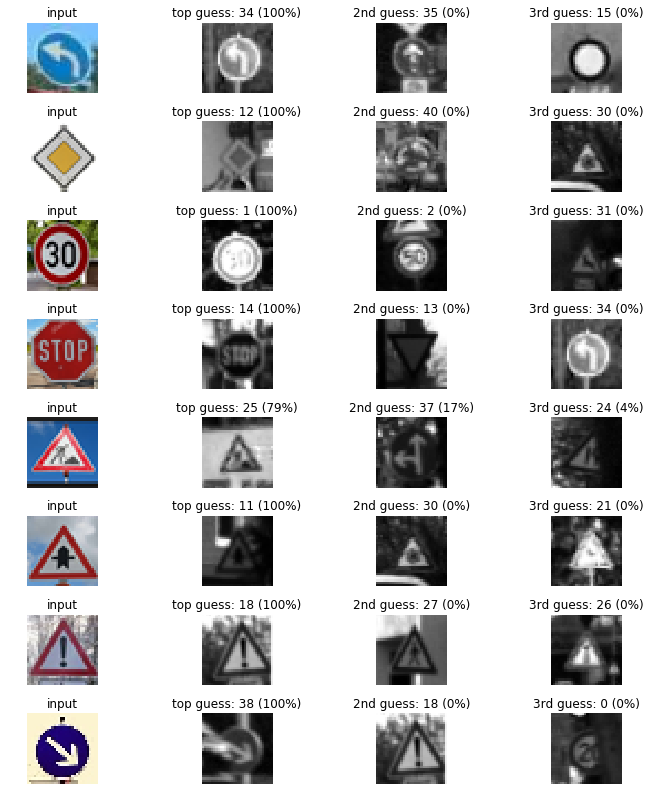
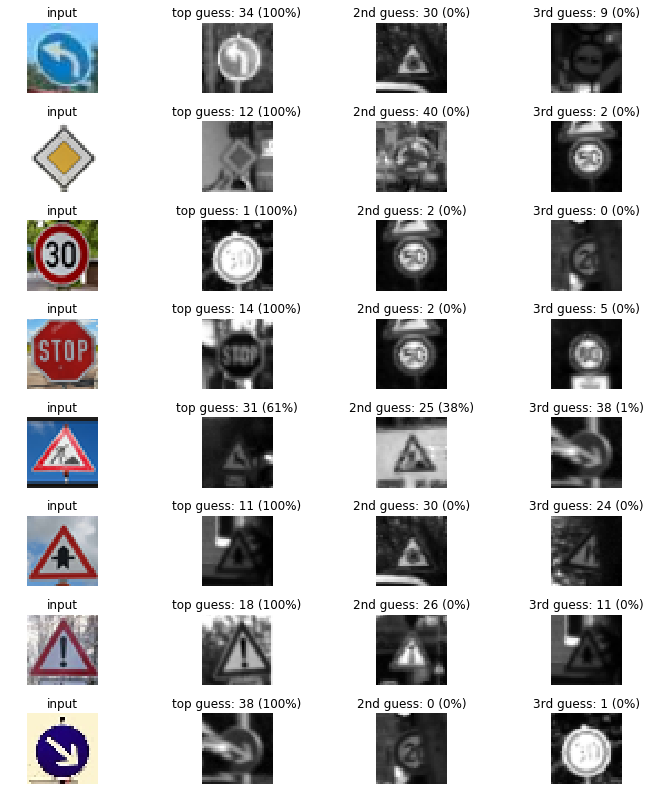
Update Readme and pictures

diff --git a/README.md b/README.md
@@ -43,7 +43,7 @@ The goals / steps of this project are the following:
 
 #### 1. Provide a Writeup / README that includes all the rubric points and how you addressed each one. You can submit your writeup as markdown or pdf. You can use this template as a guide for writing the report. The submission includes the project code.
 
-You're reading it! and here is a link to my [project code](https://github.com/udacity/CarND-Traffic-Sign-Classifier-Project/blob/master/Traffic_Sign_Classifier.ipynb)
+You're reading it! and here is a link to my [project code](https://github.com/ozdemre/SDC-NanoDegree-Project3-Traffic-Sign-Classifier/blob/main/Traffic_Sign_Classifier.ipynb)
 
 ### Data Set Summary & Exploration
 
@@ -65,29 +65,24 @@ Here is an exploratory visualization of the data set. After loading the data, fi
 
 ![alt text][image1]
 
-Then I plotted number of training data per each class.
+Then I plotted number of training data per each class to see the training data distribution.
 
+![alt text][image2]
 
 
 ### Design and Test a Model Architecture
 
 #### 1. Describe how you preprocessed the image data. What techniques were chosen and why did you choose these techniques? Consider including images showing the output of each preprocessing technique. Pre-processing refers to techniques such as converting to grayscale, normalization, etc. (OPTIONAL: As described in the "Stand Out Suggestions" part of the rubric, if you generated additional data for training, describe why you decided to generate additional data, how you generated the data, and provide example images of the additional data. Then describe the characteristics of the augmented training set like number of images in the set, number of images for each class, etc.)
 
-As a first step, I decided to convert the images to grayscale because ...
-
-Here is an example of a traffic sign image before and after grayscaling.
-
-![alt text][image2]
-
-As a last step, I normalized the image data since optimizer numerically works more stable around mean zero value.
-
-
-Here is an example of an original image and an normalized image:
+For pre processing the images, I decided to convert the images to grayscale and normalize around zero.
 
 ![alt text][image3]![alt text][image4]
 
 
-To increase the accuracy of the model some augmentation techniques can be used. (such as: transforms, rotation, zoom, mirror ..etc)
+This step is particularly important for optimizer since optimizer numerically works more stable around mean zero value.
+
+
+To increase the accuracy of the model some augmentation techniques can also be used. (such as: transforms, rotation, zoom, mirror ..etc)
 
 #### 2. Describe what your final model architecture looks like including model type, layers, layer sizes, connectivity, etc.) Consider including a diagram and/or table describing the final model.
 
@@ -98,7 +93,7 @@ My final model consisted of the following layers:
 | Input                                  | 32x32x1 Grayscale image                                          |
 | Convolution_1 5x5       | 1x1 stride, VALID padding, outputs 28X28X6                |
 | RELU                                  |                                                                                              |
-|Dropout                             |Keep probability = 0.57                       |
+|Dropout                             |Keep probability = 0.5                       |
 | Max pooling                    | 2x2 stride,  outputs 14x14x6                                    |
 | Convolution_2 5x5       | 1x1 stride, VALID padding, outputs 10x10x16   |
 | RELU                                  |                                                                                              |
@@ -129,20 +124,35 @@ the beginning I added dropout layer and optimized the hyperparameters. Adam Opti
 
 My final model results were:
 * training set accuracy of % 99
-* validation set accuracy of % 94
-* test set accuracy of % 931
+* validation set accuracy of % 93
+* test set accuracy of % 92
 
 If an iterative approach was chosen:
 * What was the first architecture that was tried and why was it chosen?
-* What were some problems with the initial architecture?
-* How was the architecture adjusted and why was it adjusted? Typical adjustments could include choosing a different model architecture, adding or taking away layers (pooling, dropout, convolution, etc), using an activation function or changing the activation function. One common justification for adjusting an architecture would be due to overfitting or underfitting. A high accuracy on the training set but low accuracy on the validation set indicates over fitting; a low accuracy on both sets indicates under fitting.
-* Which parameters were tuned? How were they adjusted and why?
-* What are some of the important design choices and why were they chosen? For example, why might a convolution layer work well with this problem? How might a dropout layer help with creating a successful model?
+    * I started with LeNet network given in the classroom tutorial as a starting point.
+    
 
-If a well known architecture was chosen:
-* What architecture was chosen?
-* Why did you believe it would be relevant to the traffic sign application?
-* How does the final model's accuracy on the training, validation and test set provide evidence that the model is working well?
+* What were some problems with the initial architecture?
+    * Initially accuracy as very low (underfiting). I added two dropout layers and tuned the hyperparameters. (Epochs, batch size, learning rate, keep prob)
+
+
+* How was the architecture adjusted and why was it adjusted? Typical adjustments could include choosing a different model architecture, adding or taking away layers (pooling, dropout, convolution, etc), using an activation function or changing the activation function. One common justification for adjusting an architecture would be due to overfitting or underfitting. A high accuracy on the training set but low accuracy on the validation set indicates over fitting; a low accuracy on both sets indicates under fitting.
+    * Dropout layers are added for avoiding overfitting. And also input layer had to be changed to 32x32x1 since we are using grayscale images.
+
+
+* Which parameters were tuned? How were they adjusted and why?
+  
+  * Learning rate, # of epochs and batch size is tuned.
+    * Learning Rate: Increasing learning rate makes the model training faster however decreasing it makes training process slower whereas it also provides the lowest possible loss.
+    * Number of epochs: I increased the number of epochs to a limit where model starts to overfit. In my model I chose 70.
+    * Batch Size: Since we have limited memory we can not train the all data set at once. So we split it into batches to train the model. In my application I choose 128.
+    * Keep Probability: I added two dropout layers with %50 keep probability to prevent overfitting.
+
+
+* What are some of the important design choices and why were they chosen? For example, why might a convolution layer work well with this problem? How might a dropout layer help with creating a successful model? 
+  
+    * Dropout basically prevents model to train in a lazy way. It helps avoding model to learn repetitive -and basically useless- features so that model can work in real (test) world.
+
  
 
 ### Test a Model on New Images
@@ -164,22 +174,23 @@ Here are the results of the prediction:
 
 
 
-The model was able to correctly guess 8 of the 8 traffic signs, which gives an accuracy of 100%. This compares favorably to the accuracy on the test set of %93
+The model was able to correctly guess 7 of the 8 traffic signs, which gives an accuracy of 87.5%. This compares favorably to the accuracy on the test set of %92
 
 #### 3. Describe how certain the model is when predicting on each of the five new images by looking at the softmax probabilities for each prediction. Provide the top 5 softmax probabilities for each image along with the sign type of each probability. (OPTIONAL: as described in the "Stand Out Suggestions" part of the rubric, visualizations can also be provided such as bar charts)
 
 The code for making predictions on my final model is located in the 11th cell of the Ipython notebook.
 
-For the first image, the model is relatively sure that this is a stop sign (probability of 0.6), and the image does contain a stop sign. The top five soft max probabilities were
+For 7 of the images, the model is relatively sure for its prediction. However, for the 5th picture (Roadwork) model seem to be struggling and making false predictions.
+From the softmax probabilities it can be seen that model confuses and predicts as "wild animals crossing" label.
+This is because both signs have a similar shape (red triangle wih some black dots inside). Model can be tuned further to avoid this problem by simply increasing number of images for both class by applying augmentation methods given above.
 
 ![alt text][image14]
 
 
 
-For the second image ... 
 
 ### (Optional) Visualizing the Neural Network (See Step 4 of the Ipython notebook for more details)
 #### 1. Discuss the visual output of your trained network's feature maps. What characteristics did the neural network use to make classifications?
 
-![alt text][image15]
+
 
